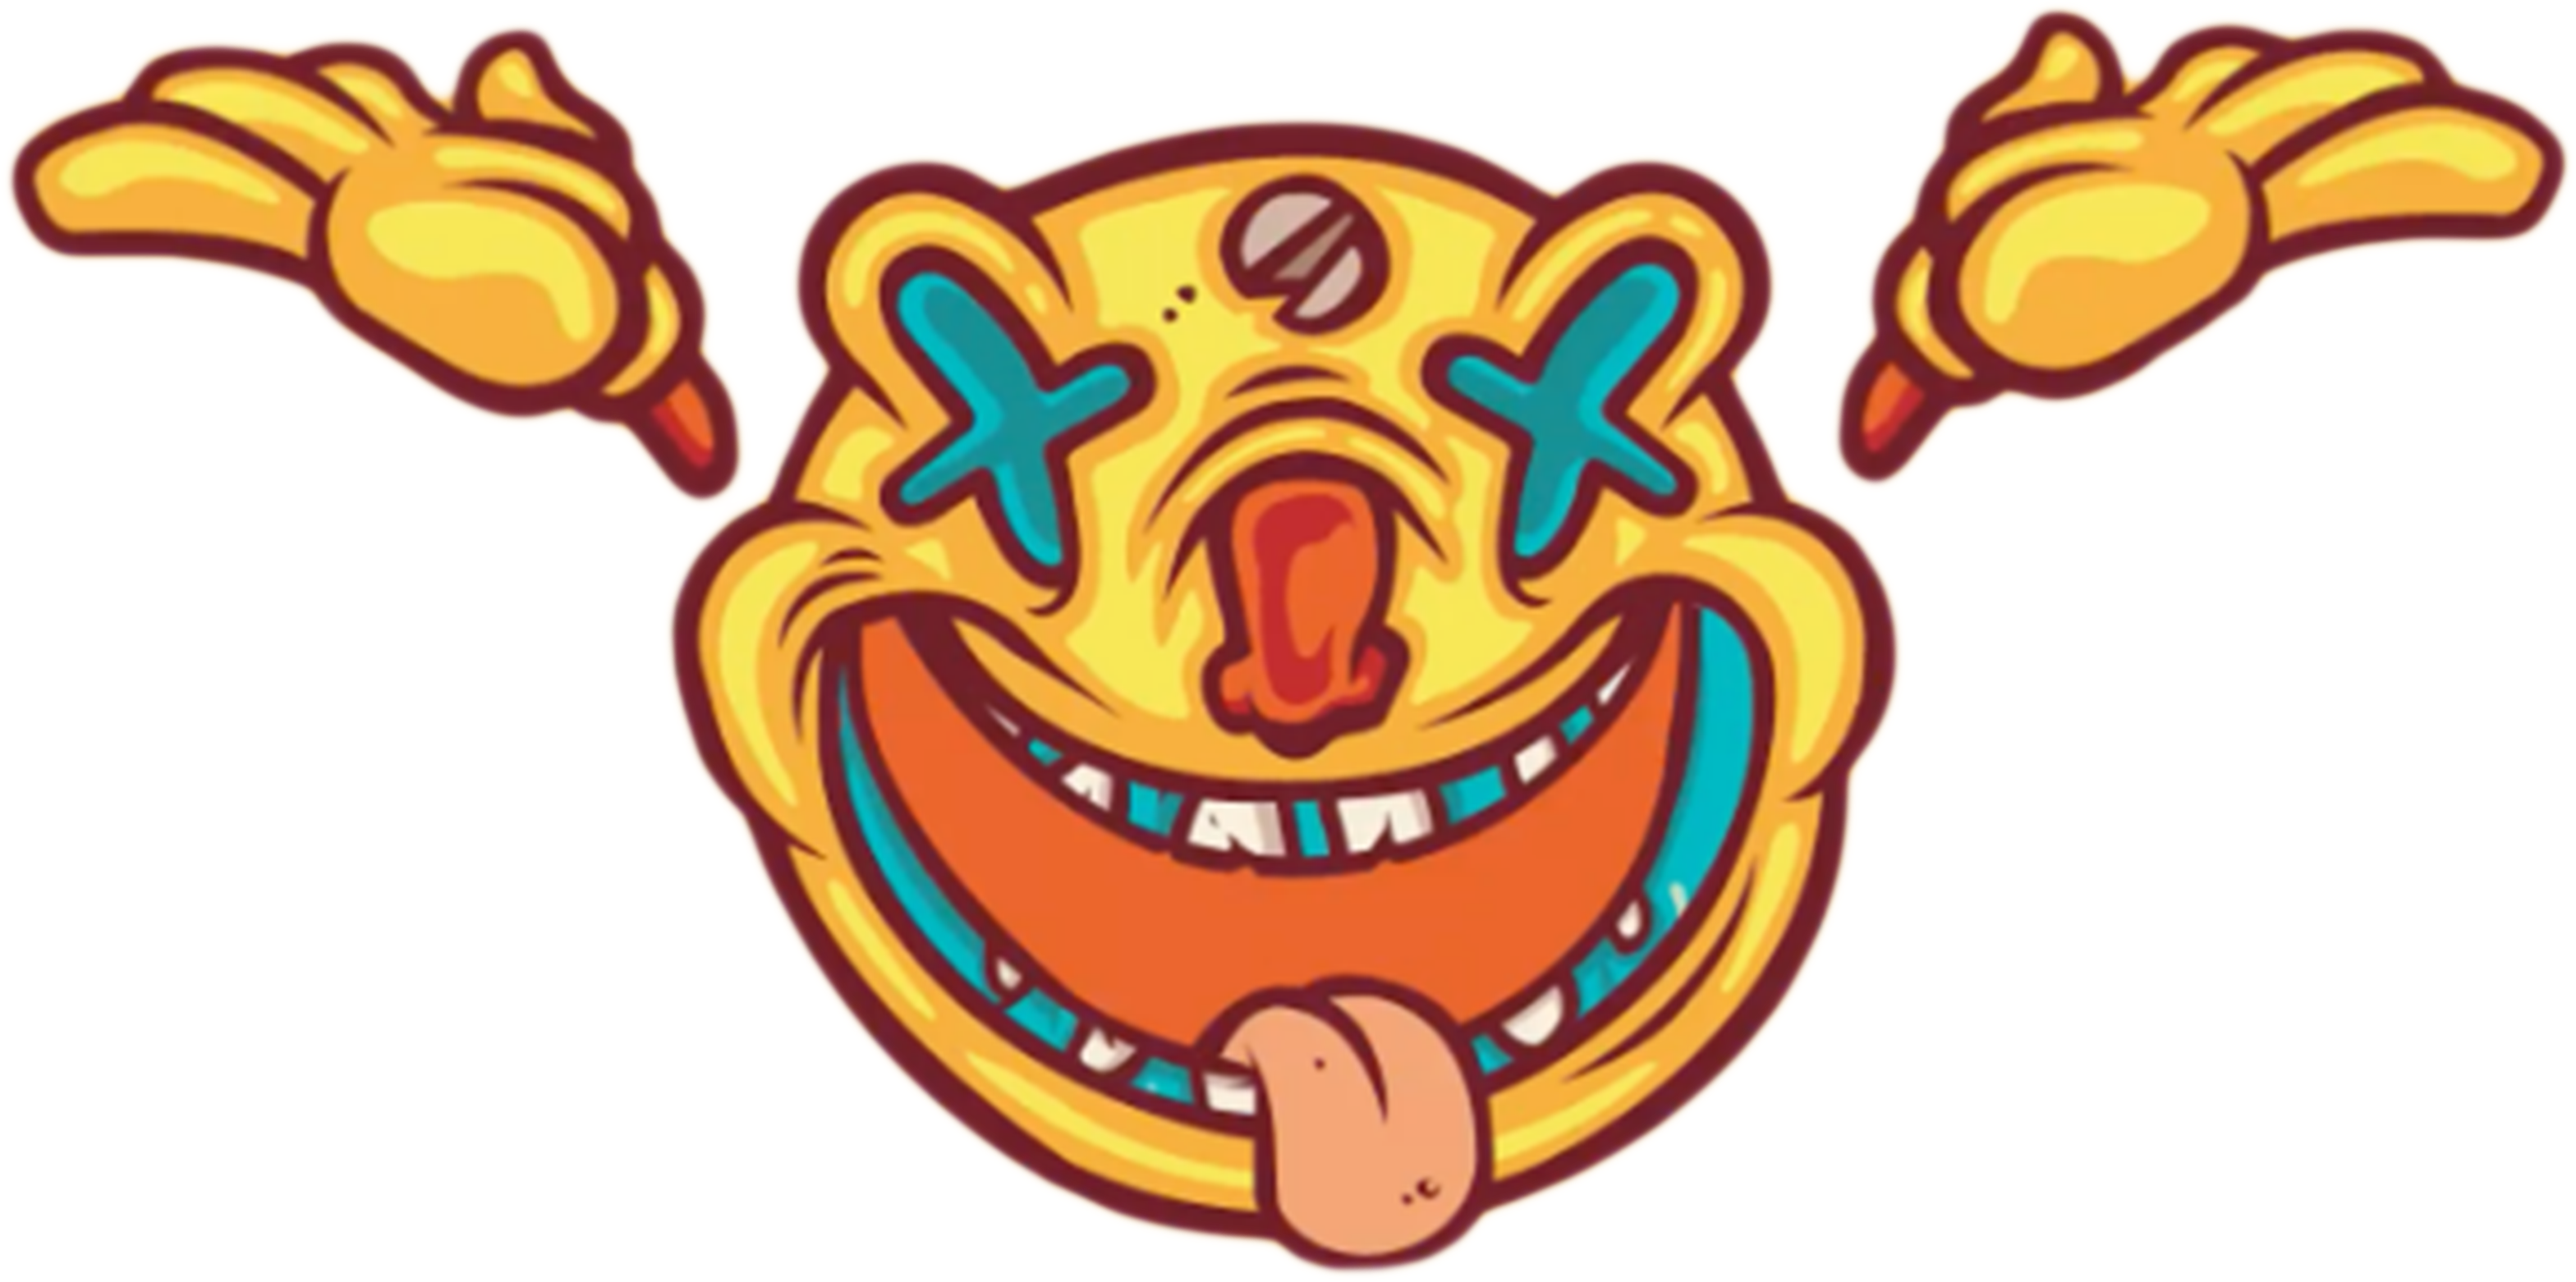
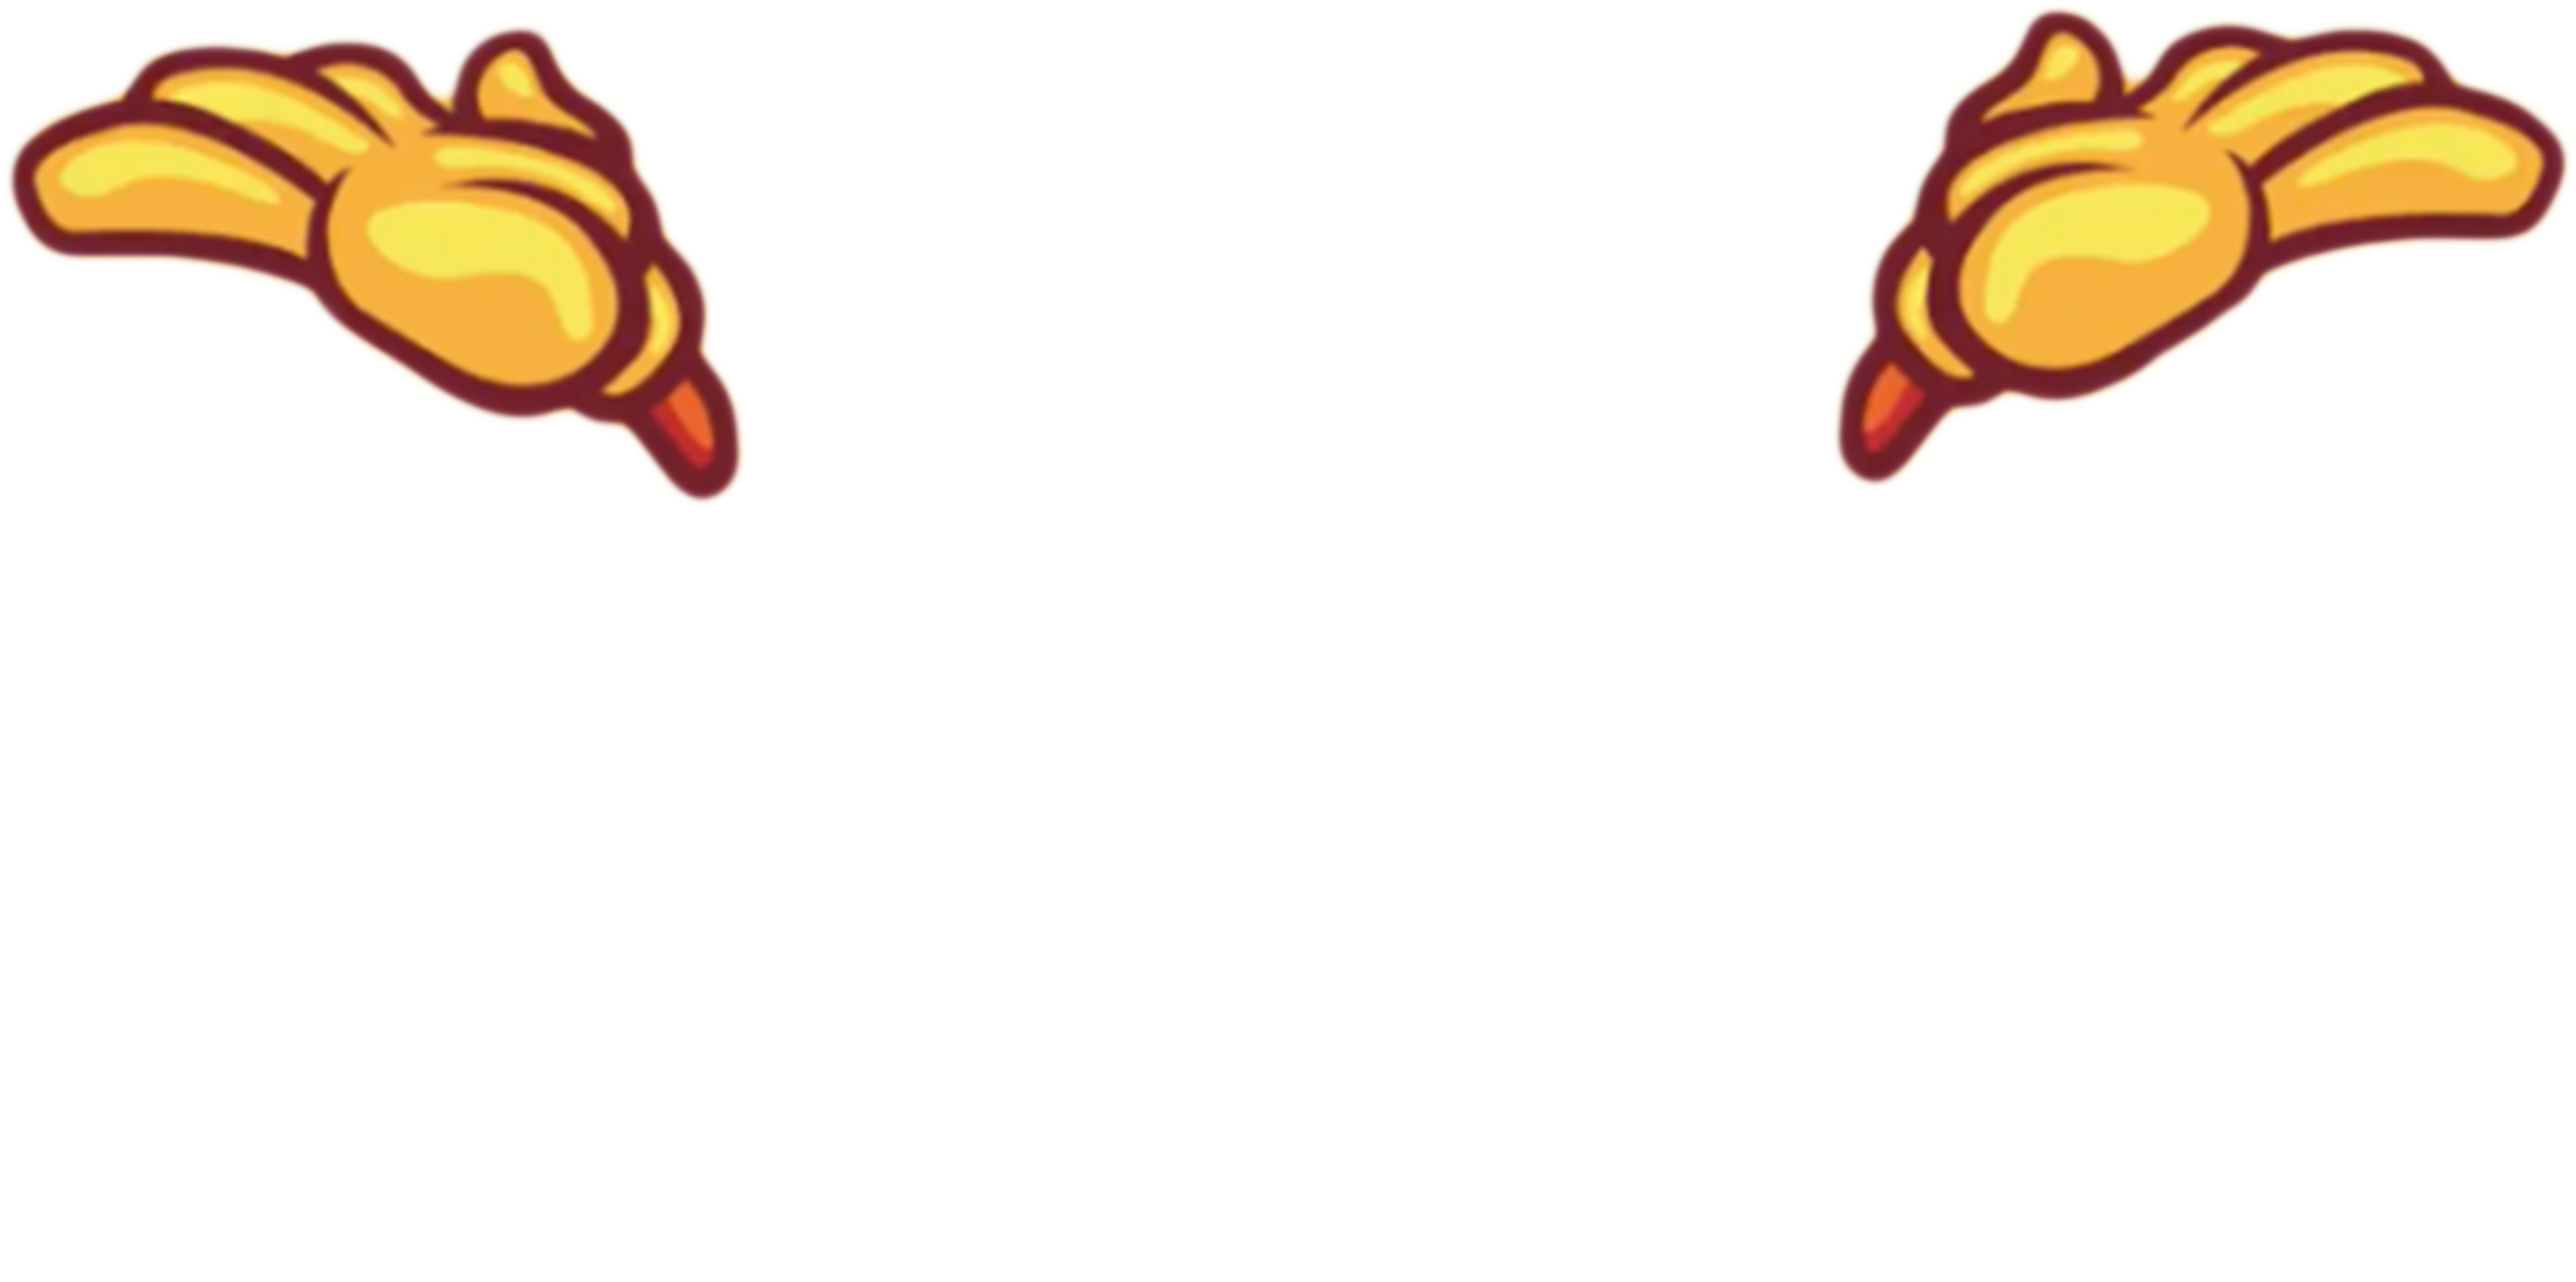
Tilføjelse af Joker animation

diff --git a/style.css b/style.css
@@ -1,5 +1,8 @@
+@import url('https://fonts.googleapis.com/css2?family=Shrikhand&display=swap');
+
 :root{
     --loadcolour: #009091;
+    --textcolor: #FEB228;
 }
 
 .load-body{
@@ -7,6 +10,62 @@
 }
 
 .img-joker{
+    position: absolute;
     margin-top: 65%;
     width: 100%;
+    z-index: -10;
+}
+
+.load-h1{
+    color: var(--textcolor);
+    font-family: 'Shrikhand', 'cursive';
+    text-align: center;
+    position: absolute;
+    margin-top: 120%;
+    margin-left: 30%;
+}
+
+#joker-hands{
+    opacity: 0;
+    animation-name:            show; 
+    animation-duration:        0s;
+    animation-delay: 5.97s;
+    animation-iteration-count: 1;
+    animation-timing-function: linear;
+    animation-fill-mode: forwards;
+}
+  
+.img-joker {
+    animation-name:            rotate; 
+    animation-duration:        1s;
+    animation-iteration-count: 6;
+    animation-timing-function: linear;
+}
+
+/* Animations */
+@keyframes rotate {
+    from {
+      transform: rotate(0deg);
+    }
+    to { 
+      transform: rotate(360deg);
+    }
+}
+
+@keyframes hide {
+    from {
+      opacity: 100;
+    }
+    to { 
+      opacity: 0;
+    }
+}
+
+@keyframes show {
+    from {
+      opacity: 0;
+    }
+    to { 
+      opacity: 100;
+    }
 }

diff --git a/loading.html b/loading.html
@@ -11,6 +11,8 @@
     <link rel="stylesheet" href="style.css">
 </head>
 <body class="load-body">
-    <img class="img-joker" src="images/Joker-NoHands.png">
+    <img class="img-joker" id="joker-nohands" src="images/Joker-NoHands.png">
+    <img class="img-joker" id="joker-hands" src="images/Joker-Hands.png">
+    <h1 class="load-h1">Loading...</h1>
 </body>
 </html>
